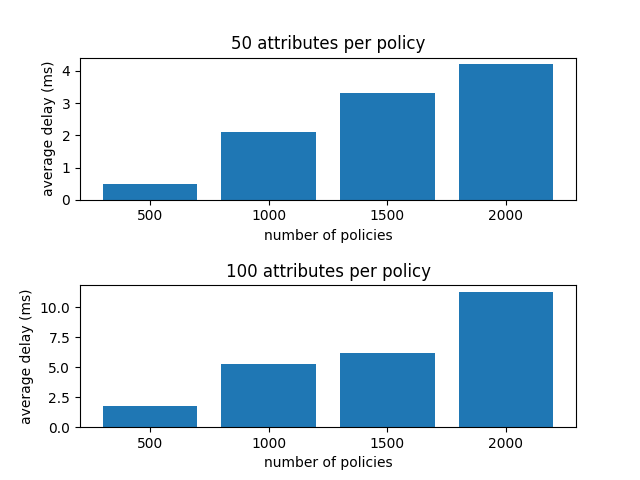
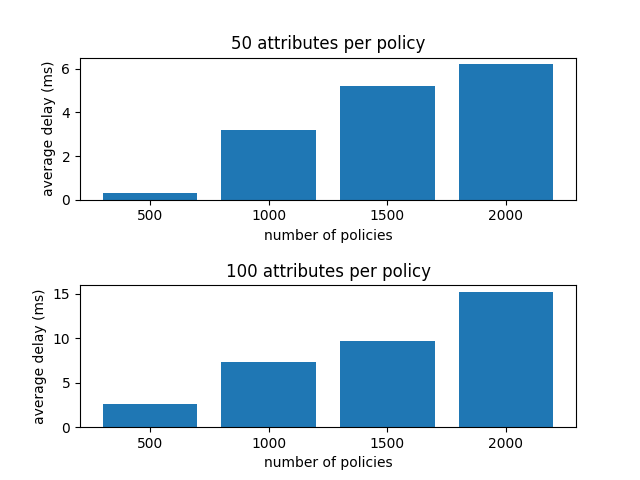
commit for backup

diff --git a/priv/abac_them_hierarchy/abac_them_hierarchy/service.py b/priv/abac_them_hierarchy/abac_them_hierarchy/service.py
@@ -1,21 +1,35 @@
 import flask
 from flask import request, jsonify
 import argparse
+import datetime
 from abac_them_hierarchy import open_ontology_graph, expand_attributes
+
+import logging
+log = logging.getLogger('werkzeug')
+log.setLevel(logging.ERROR)
 
 app = flask.Flask(__name__)
 global graph
 
+summa = 0
+i = 0
 
 @app.route("/expansions", methods=["POST"])
 def expand():
+    global summa, i
+
     attribute = request.get_json()
-    print(attribute)
+    # print(attribute)
 
     attribute_name = attribute["name"].replace("http://iotswarm.info/ontology#", "swarm:")
     attribute_value = attribute["value"].replace("http://iotswarm.info/ontology#", "swarm:")
 
+    start_us = datetime.datetime.now()
     expanded_attributes = expand_attributes(graph, attribute_name, attribute_value)
+    ms = (datetime.datetime.now() - start_us).total_seconds() * 1000
+    summa += ms
+    i += 1
+    # print("Finished in %s ms" % ms)
 
     if len(expanded_attributes) > 0:
         expanded_attributes = list(map(
@@ -27,6 +41,9 @@ def expand():
 
     return jsonify(expanded_attributes), 200, {'Content-Type': 'application/json'}
 
+@app.route("/avg", methods=["GET"])
+def avg():
+    return jsonify({"avg": summa / i})
 
 if __name__ == "__main__":
     parser = argparse.ArgumentParser()
